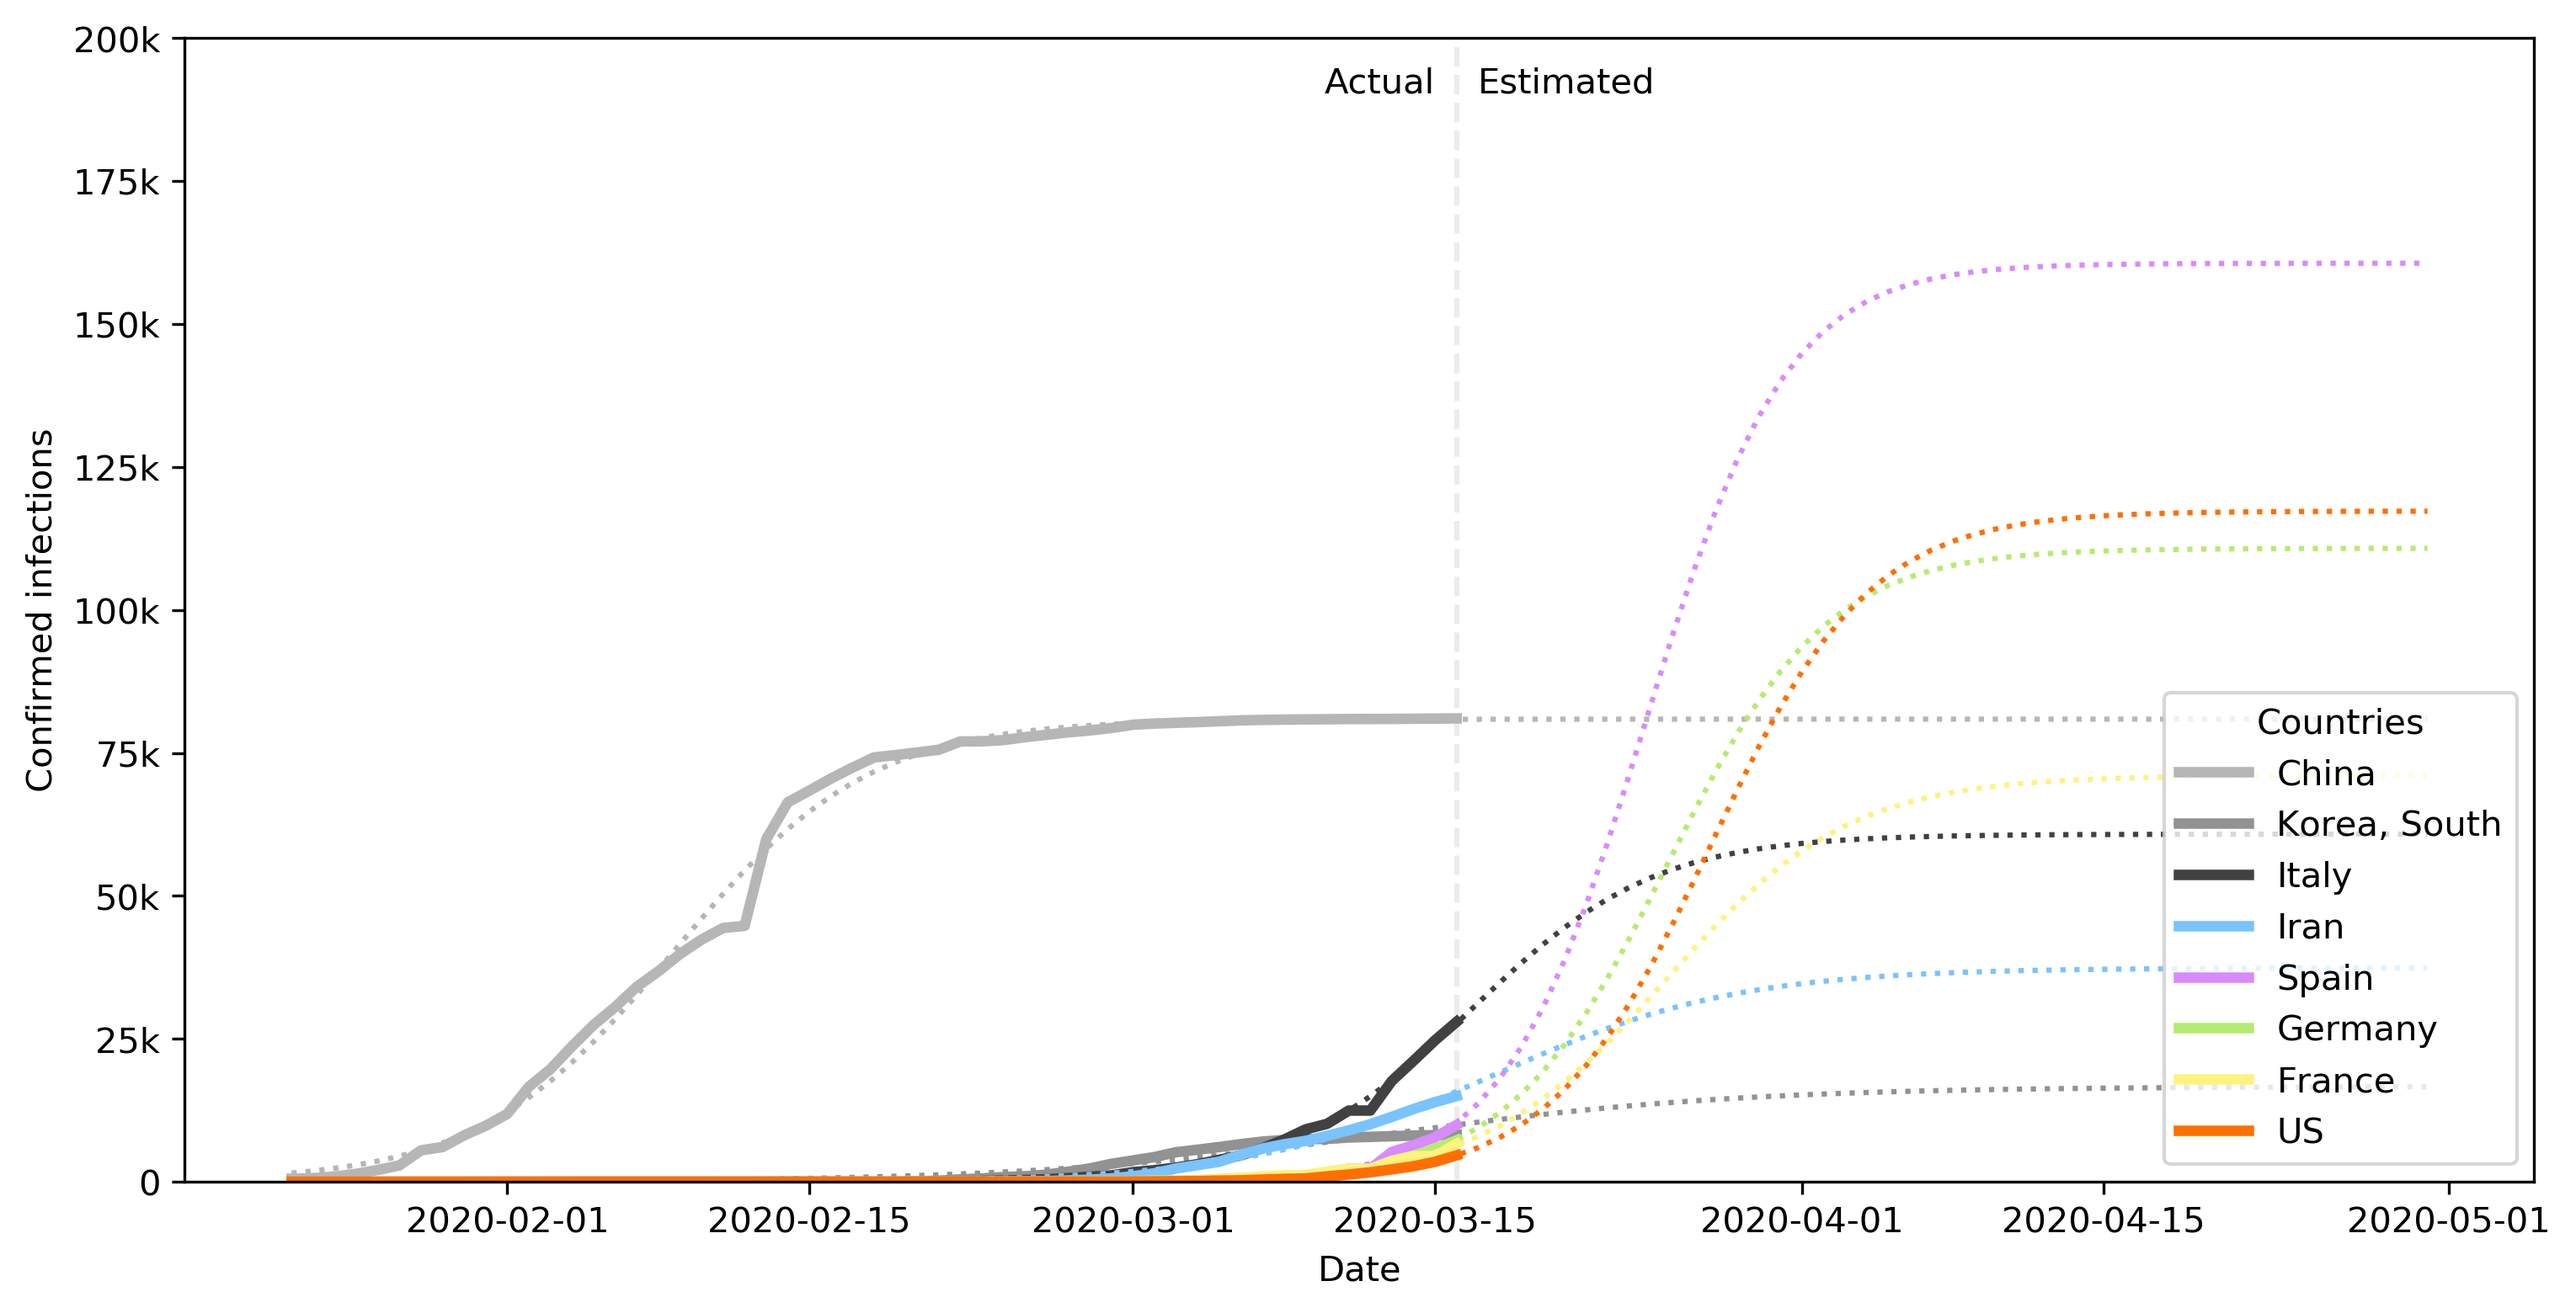
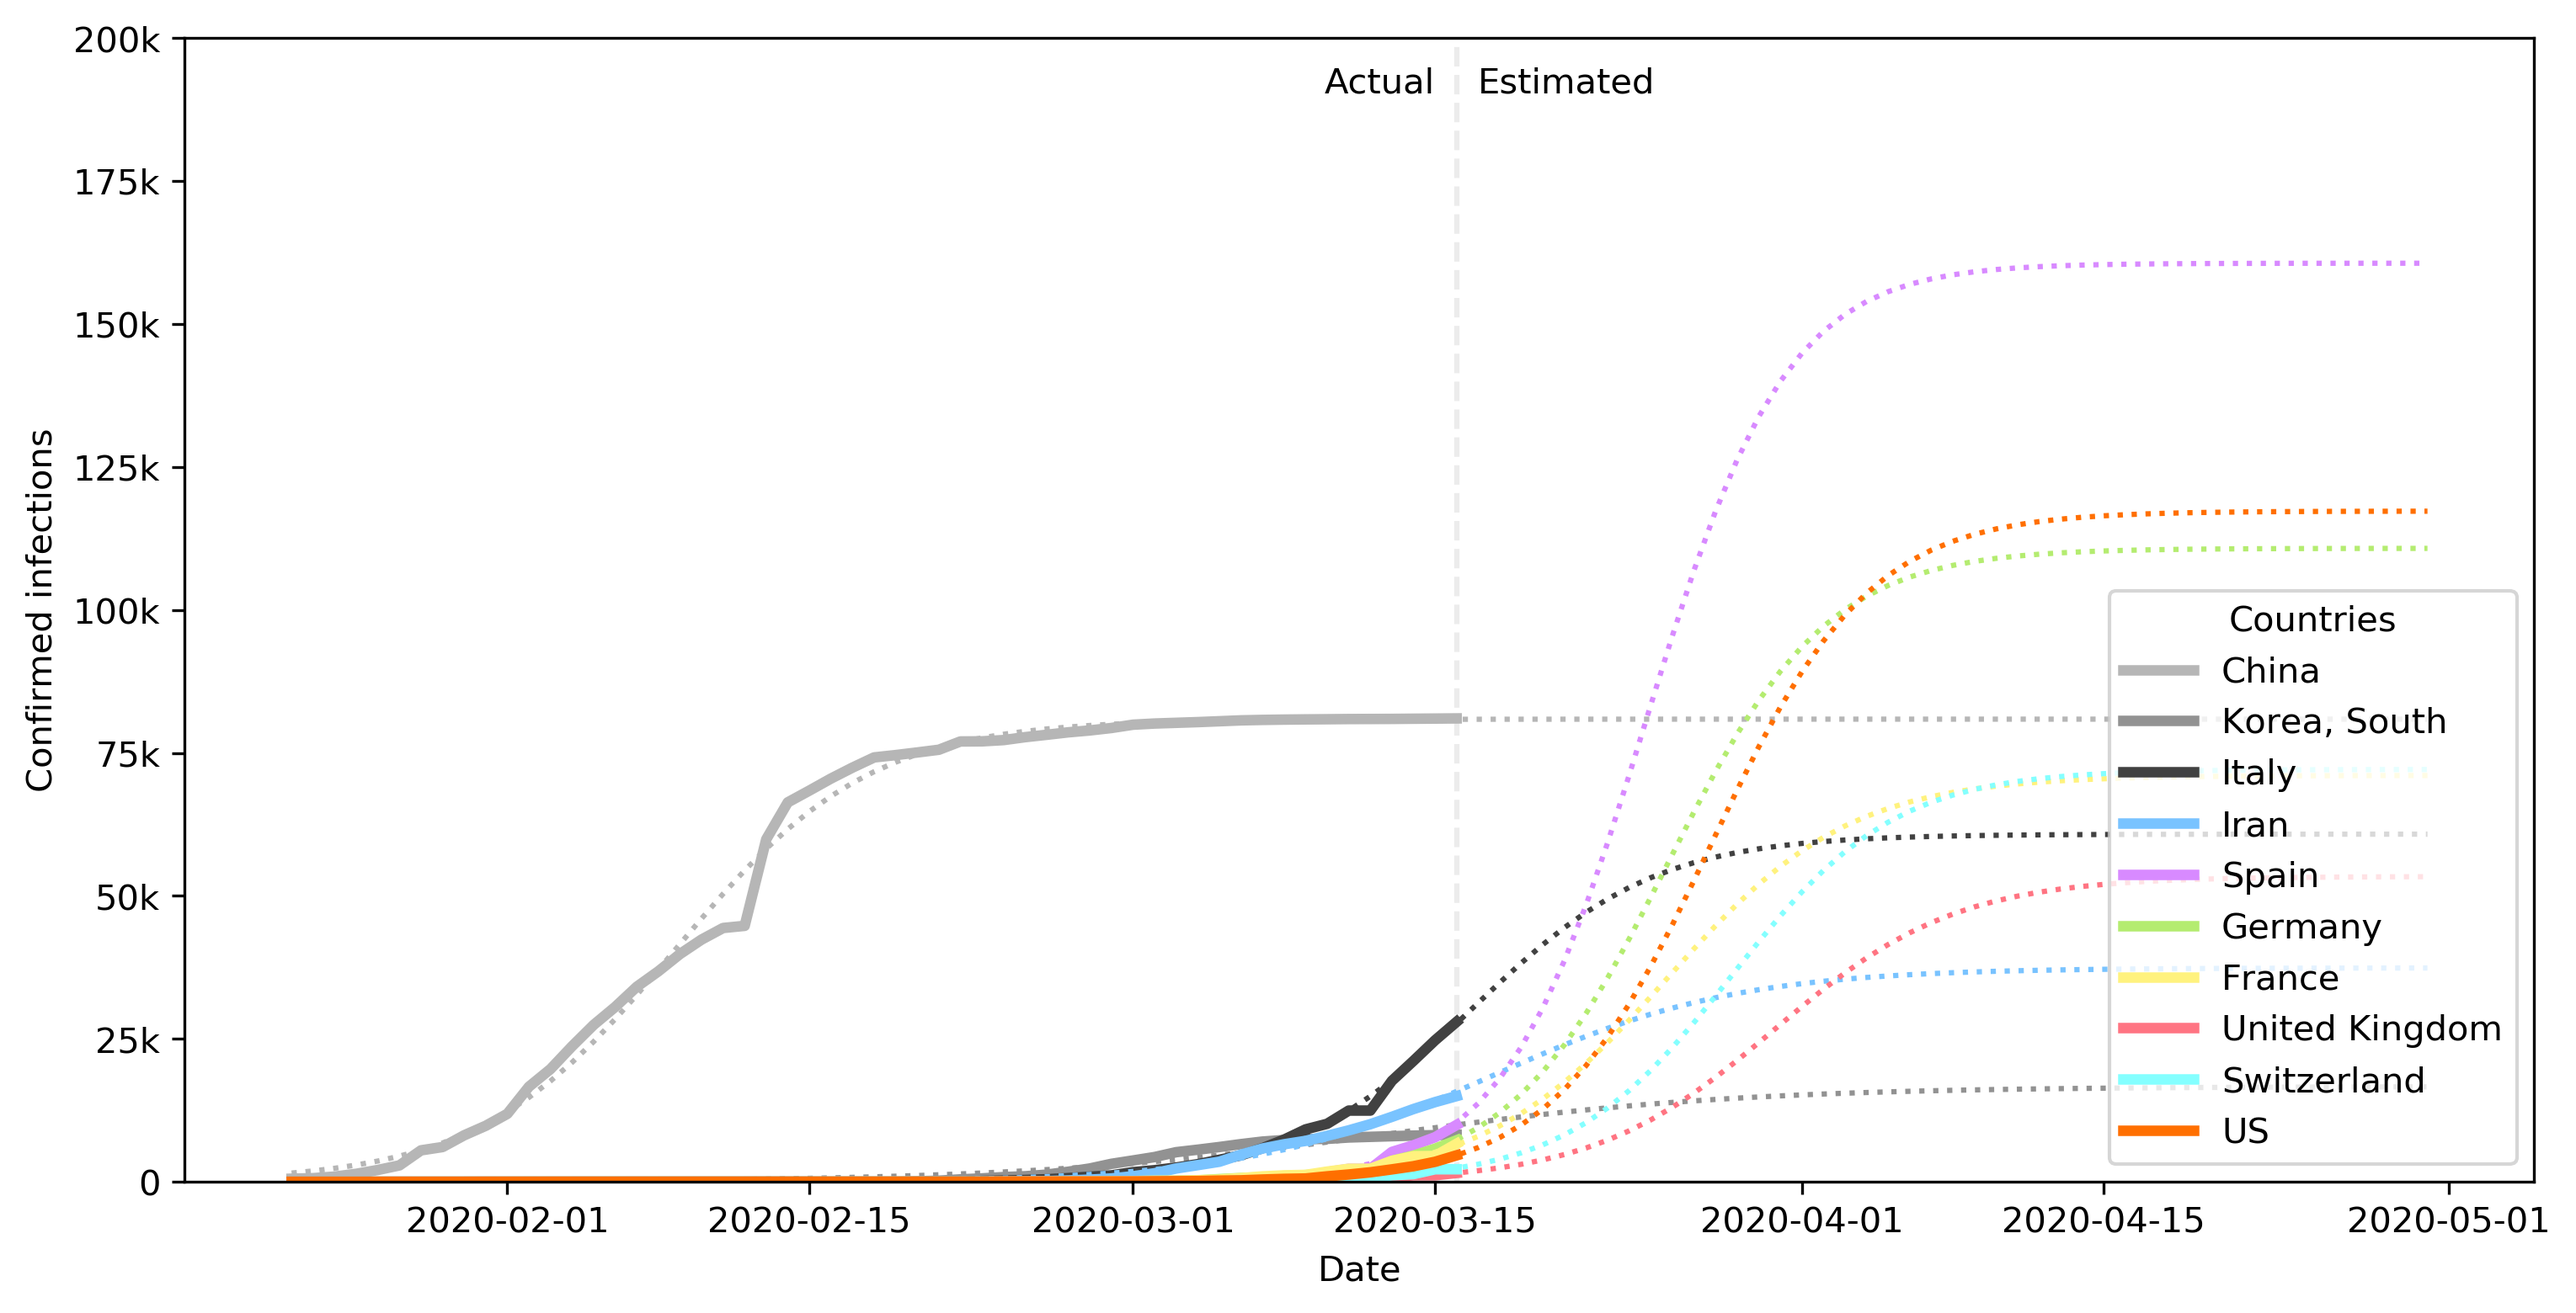
add UK and Switzerland

Changed region(s): [[0.8075, 0.4615, 0.9627, 0.8923], [0.559, 0.8615, 0.5901, 0.8923], [0.528, 0.8923, 0.559, 0.9231]]

diff --git a/plot_trends.py b/plot_trends.py
@@ -20,13 +20,16 @@ colors = {
   'light_purple': '#d88aff',
   'light_green': '#b4ec70',
   'light_yellow': '#fff27e',
+  'light_red': '#ff7482',
+  'light_cyan': '#84ffff'
 }
 start_date = np.datetime64('2020-01-22')
 all_dates = [start_date + np.timedelta64(x, 'D') for x in range(0, 100)]
 should_print = True
 
-data = pd.read_csv(dirname / 'CSSEGISandData--COVID-19/csse_covid_19_data/csse_covid_19_time_series/time_series_19-covid-Confirmed.csv')
+#%% load data and filter to countries of interest
 
+# converts a country's data into a time series
 def convert_to_ts (data, country):
   df = pd.DataFrame(data[data['Country/Region'] == country].reset_index().sum(
     axis=0, numeric_only=True
@@ -35,10 +38,7 @@ def convert_to_ts (data, country):
   df['date'] = df['date'].astype('datetime64[ns]')
   return df
 
-country_names = ['China', 'Italy', 'Iran', 'Korea, South', 'Spain', 'France', 'Germany', 'US']
-countries = { key: convert_to_ts(data, key) for key in country_names}
-
-#%% figure 1
+data = pd.read_csv(dirname / 'CSSEGISandData--COVID-19/csse_covid_19_data/csse_covid_19_time_series/time_series_19-covid-Confirmed.csv')
 dat = [
   { 'name': 'China', 'color': 'light_gray' },
   { 'name': 'Korea, South', 'color': 'medium_gray' },
@@ -47,8 +47,11 @@ dat = [
   { 'name': 'Spain', 'color': 'light_purple' },
   { 'name': 'Germany', 'color': 'light_green' },
   { 'name': 'France', 'color': 'light_yellow' },
+  { 'name': 'United Kingdom', 'color': 'light_red' },
+  { 'name': 'Switzerland', 'color': 'light_cyan' },
   { 'name': 'US', 'color': 'orange' },
 ]
+countries = { d['name']: convert_to_ts(data, d['name']) for d in dat}
 
 #%% compute offset for each country that best fits onset of epidemic (i.e., first 7 days)
 def comparison_to_china_penalty (df, offset):
@@ -121,7 +124,6 @@ def fit_to_sigmoid (df, offset, all_dates):
   )
   return sigmoid((all_dates - start_date) / np.timedelta64(1, 'D'), *p, offset), p
 
-#%% Plots the data
 fig = plt.figure(figsize=(12, 6))
 ax = fig.add_subplot(111)
 
